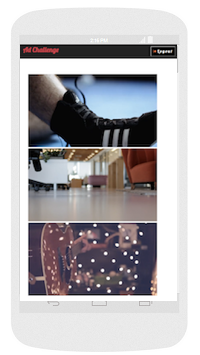
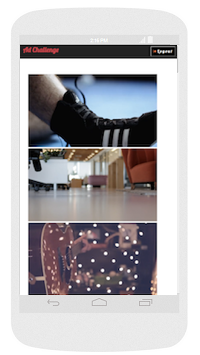
better looking on mobile

Changed region(s): [[0.09, 0.8056, 0.9, 0.8676]]

diff --git a/index.html b/index.html
@@ -21,7 +21,7 @@
   <!-- NAV SECTION -->
   <div class="navbar navbar-inverse navbar-fixed-top">
     <div class="container">
-      <div class="navbar-header">
+      <div class="col-xs-12 navbar-header">
         <button type="button" class="navbar-toggle" data-toggle="collapse" data-target=".navbar-collapse">
                     <span class="icon-bar"></span>
                     <span class="icon-bar"></span>
@@ -247,15 +247,13 @@
   <!--FOOTER SECTION -->
   <div id="footer">
     <div class="container">
-      <div class="row ">
-        &copy; 2017 www.davxsfung.com | All Right Reserved
-
+      <div class="row centered">
+        &copy; 2017 www.davxsfung.com | All Rights Reserved
       </div>
-
     </div>
-
   </div>
   <!--END FOOTER SECTION -->
+
   <!-- JAVASCRIPT FILES PLACED AT THE BOTTOM TO REDUCE THE LOADING TIME  -->
   <!-- CORE JQUERY LIBRARY -->
   <script src="assets/js/jquery.js"></script>

diff --git a/README.md b/README.md
@@ -1,6 +1,6 @@
 # portfolio
 
-* Description: This is my personal website which includes links to my portfolio of projects
+* Description: This is my personal website which includes links to my portfolio of projects coded
 
 ## To try, please go to Heroku: http://davidfung.herokuapp.com/
 
